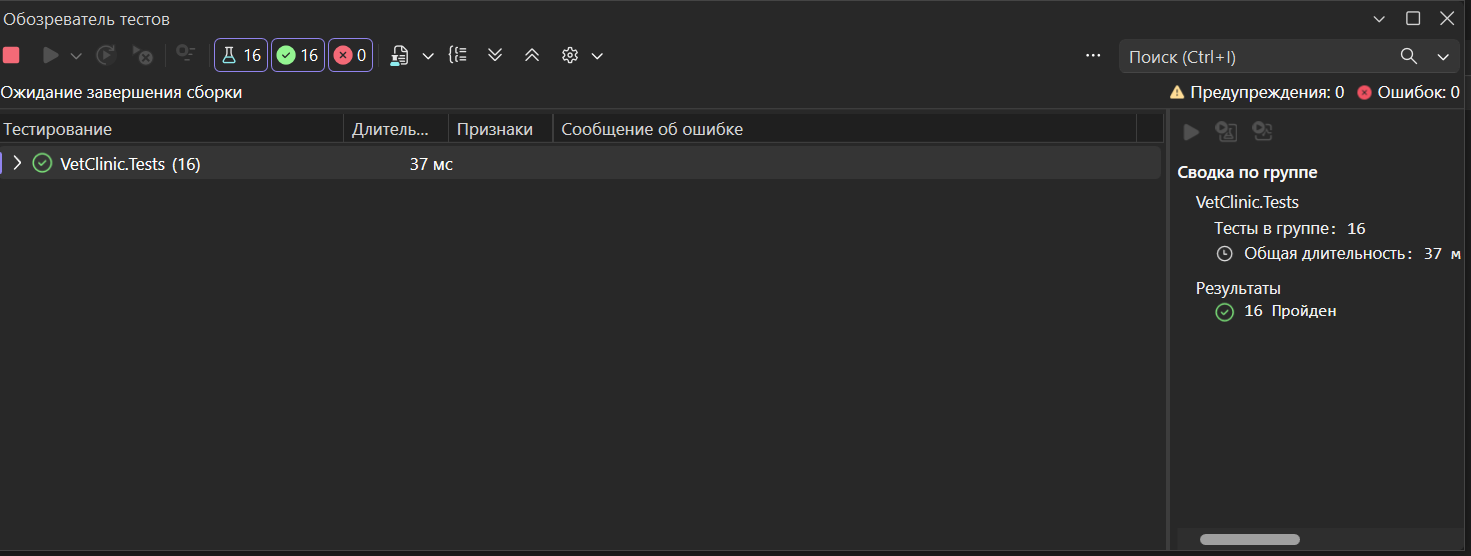
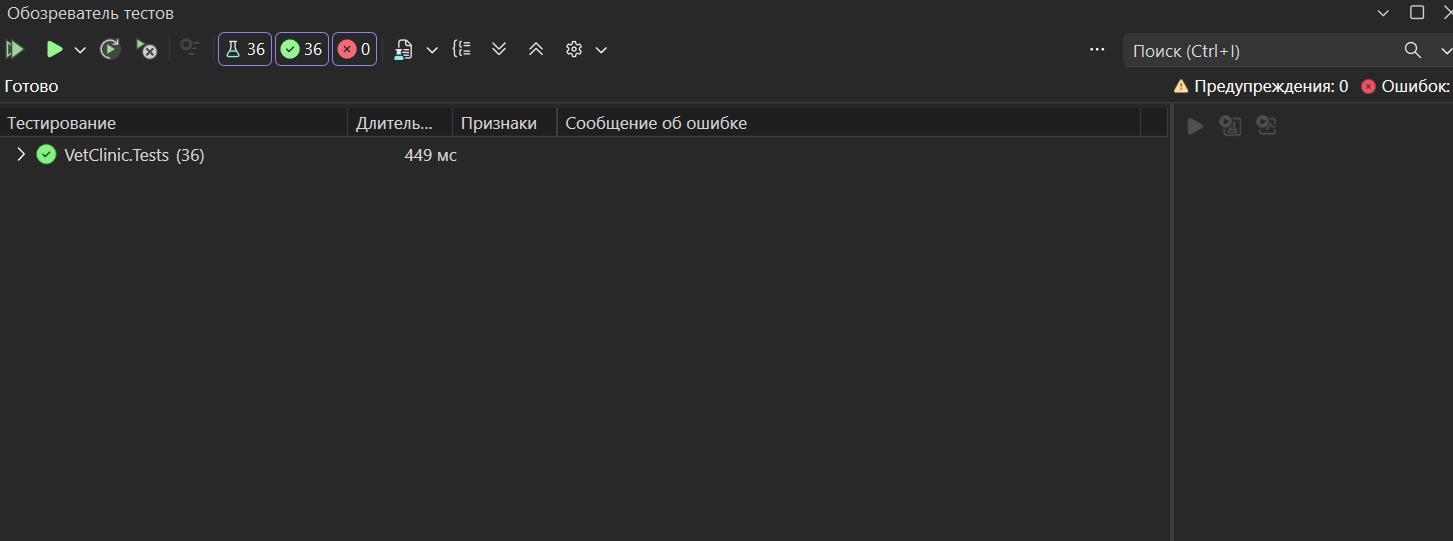
Коммит 2.12. Обновил README + скрины

diff --git a/README.md b/README.md
@@ -1,13 +1,18 @@
-# Лабораторная 1 - Ветеринарная клиника
+# Лабораторные 1-2 - Ветеринарная клиника
 
 Ладыгин Денис Дмитриевич, группа 6411, вариант 10.
 
-Реализована доменная модель ветклиники и unit тесты на LINQ-запросы из задания. Данные хранятся в памяти.
+В лабе 1 реализована доменная модель ветклиники и unit тесты на LINQ-запросы из задания. 
+В лабе 2 добавлен REST API на ASP.NET Core: CRUD для всех сущностей и запросы из лабы 1. Данные пока хранятся в памяти.
 
 ## Структура
 
-- `VetClinic.Domain` - доменные классы
-- `VetClinic.Tests` - тестовые данные и unit тесты (xunit v3)
+- `VetClinic.Domain` - доменные классы, интерфейсы репозиториев и начальные данные
+- `VetClinic.Infrastructure.InMemory` - репозитории, которые хранят данные в памяти
+- `VetClinic.Contracts` - DTO и интерфейсы сервисов
+- `VetClinic.Application` - сервисы и маппинг
+- `VetClinic.Api` - контроллеры, обработка ошибок, Scalar
+- `VetClinic.Tests` - unit тесты (xunit v3)
 
 ## Модель данных
 
@@ -19,13 +24,35 @@
 - `Specialization` - справочник специализаций, у общих специализаций вид не указан
 - `Appointment` - запись на прием: дата и время, кабинет, питомец, врач, признак повторного приема
 
+Начальные данные лежат в `VetClinic.Domain/Seeds`, их используют и API, и тесты.
+
+## API
+
+Для владельцев, питомцев, врачей, записей на прием, пород и специализаций есть: GET, GET {id}, POST, PUT {id} и DELETE {id} (`api/owners`, `api/pets`, `api/vets`, `api/appointments`, `api/breeds`, `api/specializations`).
+
+Если запись не найдена, возвращается 404, если данные не прошли валидацию - 400. DELETE возвращает 204, даже если записи уже нет.
+При удалении владельца удаляются его питомцы и их записи на прием, при удалении врача или питомца - их записи.
+При удалении породы или специализации у питомцев и врачей она просто сбрасывается.
+
 ## Запросы
 
-1. Все ветеринары, специализирующиеся на выбранном виде животных
-2. Все питомцы, записанные на прием к указанному врачу, по кличке
-3. Количество повторных приемов выбранной породы
-4. Владельцы, у которых больше одного питомца, по ФИО
-5. Приемы за месяц в выбранном кабинете
+1. Все ветеринары, специализирующиеся на выбранном виде животных - `api/analytics/vets-by-species/{species}`
+2. Все питомцы, записанные на прием к указанному врачу, по кличке - `api/analytics/pets-by-vet/{vetId}`
+3. Количество повторных приемов выбранной породы - `api/analytics/repeat-appointments-by-breed/{breedId}`
+4. Владельцы, у которых больше одного питомца, по ФИО - `api/analytics/owners-with-multiple-pets`
+5. Приемы за месяц в выбранном кабинете - `api/analytics/appointments-by-room?roomNumber=&year=&month=`
+
+## Запуск
+
+```sh
+cd VetClinic
+dotnet run --project VetClinic.Api --launch-profile https
+```
+
+Документация API: https://localhost:7180/scalar/v1
+
+![Scalar](VetClinic/scalar1.png)
+![Scalar](VetClinic/scalar2.png)
 
 ## Запуск тестов
 
@@ -33,6 +60,9 @@
 cd VetClinic
 dotnet test --solution VetClinic.slnx
 ```
+
+Тесты из лабы 1 проверяют запросы на начальных данных. В лабе 2 добавлены тесты сервисов:
+те же запросы через сервис аналитики, а также создание, изменение и каскадное удаление.
 
 ### Результаты тестов
 
